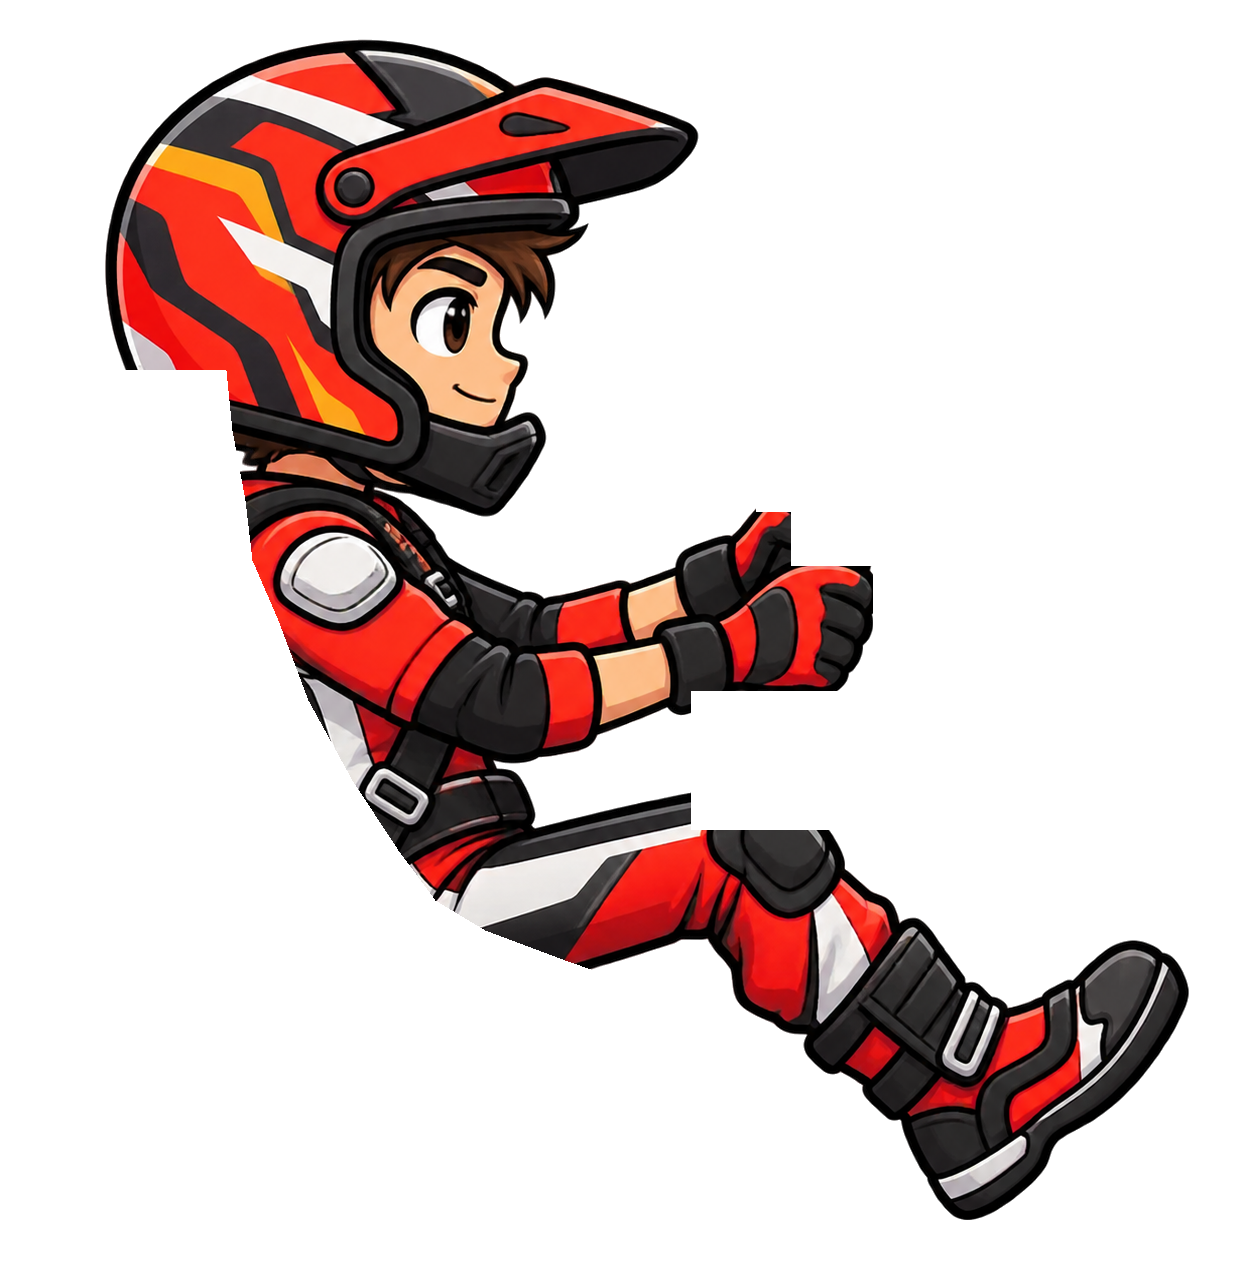
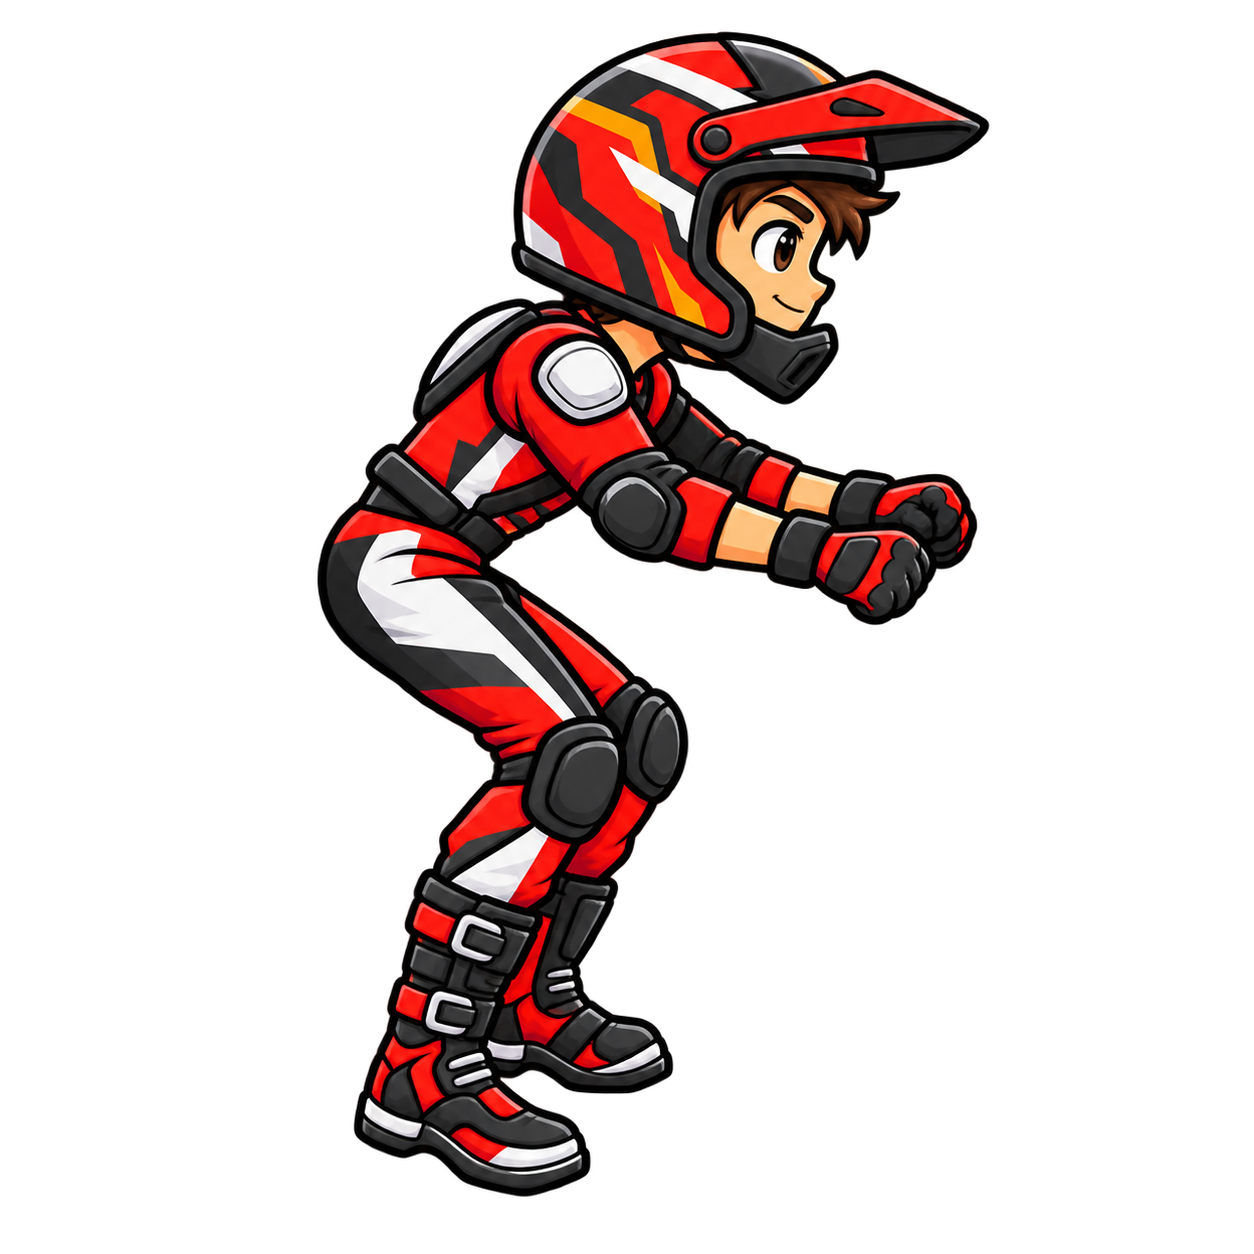
Use the new rider and driver art on the fourteen new machines
Two purpose-drawn poses replace the cut-down car driver: rider.png stands
on the pegs in an attack crouch with both fists closed at bar height, and
driver.png sits in a cockpit. Neither carries a seat or a steering wheel,
so nothing phantom rides along.

Placement is fitted per machine from landmarks measured off each sprite -
the fists to each bike's grips, the hips to each trike's seat - with the
head body and its radius following. make_rider.py goes: it existed only
to cut props out of character.png, which the new art does not have.

The five original buggies keep character.png; they have cabs, where a
seat and a wheel are what you would expect to see.

diff --git a/lib/game/vehicle/vehicle.dart b/lib/game/vehicle/vehicle.dart
@@ -378,10 +378,10 @@ final Vehicle dustdevil = Vehicle(
   ],
   driverAsset: 'rider.png',
   driverBehind: true,
-  driverScale: 1.05,
-  driverOffset: Vector2(0.10, -0.58),
-  headOffset: Vector2(-0.17, -1.05),
-  headRadius: 0.35,
+  driverScale: 1.15,
+  driverOffset: Vector2(-0.05, -0.50),
+  headOffset: Vector2(0.07, -1.07),
+  headRadius: 0.29,
   chassisDensity: 0.5,
   wheelDensity: 0.9,
   headDensity: 0.75,
@@ -409,10 +409,10 @@ final Vehicle piston = Vehicle(
   ],
   driverAsset: 'rider.png',
   driverBehind: true,
-  driverScale: 1.05,
-  driverOffset: Vector2(0.61, -0.45),
-  headOffset: Vector2(0.34, -0.92),
-  headRadius: 0.35,
+  driverScale: 1.15,
+  driverOffset: Vector2(0.47, -0.38),
+  headOffset: Vector2(0.58, -0.94),
+  headRadius: 0.29,
   chassisDensity: 0.7,
   wheelDensity: 0.9,
   headDensity: 0.8,
@@ -440,10 +440,10 @@ final Vehicle gecko = Vehicle(
   ],
   driverAsset: 'rider.png',
   driverBehind: true,
-  driverScale: 1.05,
-  driverOffset: Vector2(0.11, -0.62),
-  headOffset: Vector2(-0.16, -1.09),
-  headRadius: 0.35,
+  driverScale: 1.15,
+  driverOffset: Vector2(-0.04, -0.54),
+  headOffset: Vector2(0.08, -1.11),
+  headRadius: 0.29,
   chassisDensity: 0.55,
   wheelDensity: 0.9,
   headDensity: 0.7,
@@ -471,10 +471,10 @@ final Vehicle ionwing = Vehicle(
   ],
   driverAsset: 'rider.png',
   driverBehind: true,
-  driverScale: 1.05,
-  driverOffset: Vector2(0.26, -0.56),
-  headOffset: Vector2(-0.01, -1.03),
-  headRadius: 0.35,
+  driverScale: 1.15,
+  driverOffset: Vector2(0.11, -0.48),
+  headOffset: Vector2(0.23, -1.05),
+  headRadius: 0.29,
   chassisDensity: 0.42,
   wheelDensity: 0.9,
   headDensity: 0.65,
@@ -502,10 +502,10 @@ final Vehicle scarab = Vehicle(
   ],
   driverAsset: 'rider.png',
   driverBehind: true,
-  driverScale: 1.05,
-  driverOffset: Vector2(0.10, -0.58),
-  headOffset: Vector2(-0.17, -1.05),
-  headRadius: 0.35,
+  driverScale: 1.15,
+  driverOffset: Vector2(-0.05, -0.50),
+  headOffset: Vector2(0.07, -1.07),
+  headRadius: 0.29,
   chassisDensity: 0.62,
   wheelDensity: 0.9,
   headDensity: 0.7,
@@ -533,10 +533,10 @@ final Vehicle needle = Vehicle(
   ],
   driverAsset: 'rider.png',
   driverBehind: true,
-  driverScale: 1.05,
-  driverOffset: Vector2(0.77, -0.43),
-  headOffset: Vector2(0.50, -0.90),
-  headRadius: 0.35,
+  driverScale: 1.15,
+  driverOffset: Vector2(0.63, -0.36),
+  headOffset: Vector2(0.74, -0.92),
+  headRadius: 0.29,
   chassisDensity: 0.6,
   wheelDensity: 0.9,
   headDensity: 0.85,
@@ -564,10 +564,10 @@ final Vehicle ratchet = Vehicle(
   ],
   driverAsset: 'rider.png',
   driverBehind: true,
-  driverScale: 1.05,
-  driverOffset: Vector2(0.26, -0.58),
-  headOffset: Vector2(-0.01, -1.05),
-  headRadius: 0.35,
+  driverScale: 1.15,
+  driverOffset: Vector2(0.11, -0.50),
+  headOffset: Vector2(0.23, -1.07),
+  headRadius: 0.29,
   chassisDensity: 0.58,
   wheelDensity: 0.9,
   headDensity: 0.8,
@@ -602,12 +602,12 @@ final Vehicle trilobite = Vehicle(
     WheelMount(anchor: Vector2(-1.98, 0.50), radius: 0.49, spriteScale: 1.09),
     WheelMount(anchor: Vector2(0.79, 0.50), radius: 0.49, spriteScale: 1.09),
   ],
-  driverAsset: 'rider.png',
+  driverAsset: 'driver.png',
   driverBehind: true,
-  driverScale: 1.1,
-  driverOffset: Vector2(-0.19, -0.60),
-  headOffset: Vector2(-0.47, -1.10),
-  headRadius: 0.36,
+  driverScale: 1.05,
+  driverOffset: Vector2(-0.12, -0.52),
+  headOffset: Vector2(-0.41, -0.96),
+  headRadius: 0.27,
   chassisDensity: 1.1,
   wheelDensity: 0.9,
   headDensity: 0.4,
@@ -633,12 +633,12 @@ final Vehicle wasp = Vehicle(
     WheelMount(anchor: Vector2(-1.72, 0.45), radius: 0.49, spriteScale: 1.09),
     WheelMount(anchor: Vector2(1.36, 0.45), radius: 0.49, spriteScale: 1.09),
   ],
-  driverAsset: 'rider.png',
+  driverAsset: 'driver.png',
   driverBehind: true,
-  driverScale: 1.1,
-  driverOffset: Vector2(-0.28, -0.54),
-  headOffset: Vector2(-0.56, -1.04),
-  headRadius: 0.36,
+  driverScale: 1.05,
+  driverOffset: Vector2(-0.21, -0.46),
+  headOffset: Vector2(-0.50, -0.90),
+  headRadius: 0.27,
   chassisDensity: 0.8,
   wheelDensity: 0.9,
   headDensity: 0.6,
@@ -664,12 +664,12 @@ final Vehicle kite = Vehicle(
     WheelMount(anchor: Vector2(-1.94, 0.35), radius: 0.49, spriteScale: 1.09),
     WheelMount(anchor: Vector2(1.54, 0.35), radius: 0.49, spriteScale: 1.09),
   ],
-  driverAsset: 'rider.png',
+  driverAsset: 'driver.png',
   driverBehind: true,
-  driverScale: 1.1,
-  driverOffset: Vector2(-0.24, -0.46),
-  headOffset: Vector2(-0.52, -0.95),
-  headRadius: 0.36,
+  driverScale: 1.05,
+  driverOffset: Vector2(-0.16, -0.37),
+  headOffset: Vector2(-0.45, -0.81),
+  headRadius: 0.27,
   chassisDensity: 0.9,
   wheelDensity: 0.9,
   headDensity: 0.5,
@@ -695,12 +695,12 @@ final Vehicle haulertrike = Vehicle(
     WheelMount(anchor: Vector2(-1.76, 0.45), radius: 0.49, spriteScale: 1.09),
     WheelMount(anchor: Vector2(1.58, 0.45), radius: 0.49, spriteScale: 1.09),
   ],
-  driverAsset: 'rider.png',
+  driverAsset: 'driver.png',
   driverBehind: true,
-  driverScale: 1.1,
-  driverOffset: Vector2(-0.10, -0.54),
-  headOffset: Vector2(-0.39, -1.04),
-  headRadius: 0.36,
+  driverScale: 1.05,
+  driverOffset: Vector2(-0.03, -0.46),
+  headOffset: Vector2(-0.32, -0.90),
+  headRadius: 0.27,
   chassisDensity: 1.7,
   wheelDensity: 0.9,
   headDensity: 0.35,
@@ -726,12 +726,12 @@ final Vehicle compass = Vehicle(
     WheelMount(anchor: Vector2(-1.76, 0.42), radius: 0.49, spriteScale: 1.09),
     WheelMount(anchor: Vector2(1.06, 0.42), radius: 0.49, spriteScale: 1.09),
   ],
-  driverAsset: 'rider.png',
+  driverAsset: 'driver.png',
   driverBehind: true,
-  driverScale: 1.1,
-  driverOffset: Vector2(-0.15, -0.49),
-  headOffset: Vector2(-0.43, -0.98),
-  headRadius: 0.36,
+  driverScale: 1.05,
+  driverOffset: Vector2(-0.08, -0.40),
+  headOffset: Vector2(-0.37, -0.84),
+  headRadius: 0.27,
   chassisDensity: 1.0,
   wheelDensity: 0.9,
   headDensity: 0.45,
@@ -757,12 +757,12 @@ final Vehicle cinder = Vehicle(
     WheelMount(anchor: Vector2(-1.89, 0.44), radius: 0.49, spriteScale: 1.09),
     WheelMount(anchor: Vector2(1.14, 0.44), radius: 0.49, spriteScale: 1.09),
   ],
-  driverAsset: 'rider.png',
+  driverAsset: 'driver.png',
   driverBehind: true,
-  driverScale: 1.1,
-  driverOffset: Vector2(-0.28, -0.49),
-  headOffset: Vector2(-0.56, -0.98),
-  headRadius: 0.36,
+  driverScale: 1.05,
+  driverOffset: Vector2(-0.21, -0.40),
+  headOffset: Vector2(-0.50, -0.84),
+  headRadius: 0.27,
   chassisDensity: 0.95,
   wheelDensity: 0.9,
   headDensity: 0.6,
@@ -788,12 +788,12 @@ final Vehicle stilt = Vehicle(
     WheelMount(anchor: Vector2(-1.98, 0.64), radius: 0.49, spriteScale: 1.09),
     WheelMount(anchor: Vector2(1.32, 0.64), radius: 0.49, spriteScale: 1.09),
   ],
-  driverAsset: 'rider.png',
+  driverAsset: 'driver.png',
   driverBehind: true,
-  driverScale: 1.1,
-  driverOffset: Vector2(-0.28, -0.52),
-  headOffset: Vector2(-0.56, -1.01),
-  headRadius: 0.36,
+  driverScale: 1.05,
+  driverOffset: Vector2(-0.21, -0.43),
+  headOffset: Vector2(-0.50, -0.87),
+  headRadius: 0.27,
   chassisDensity: 0.85,
   wheelDensity: 0.9,
   headDensity: 0.9,
